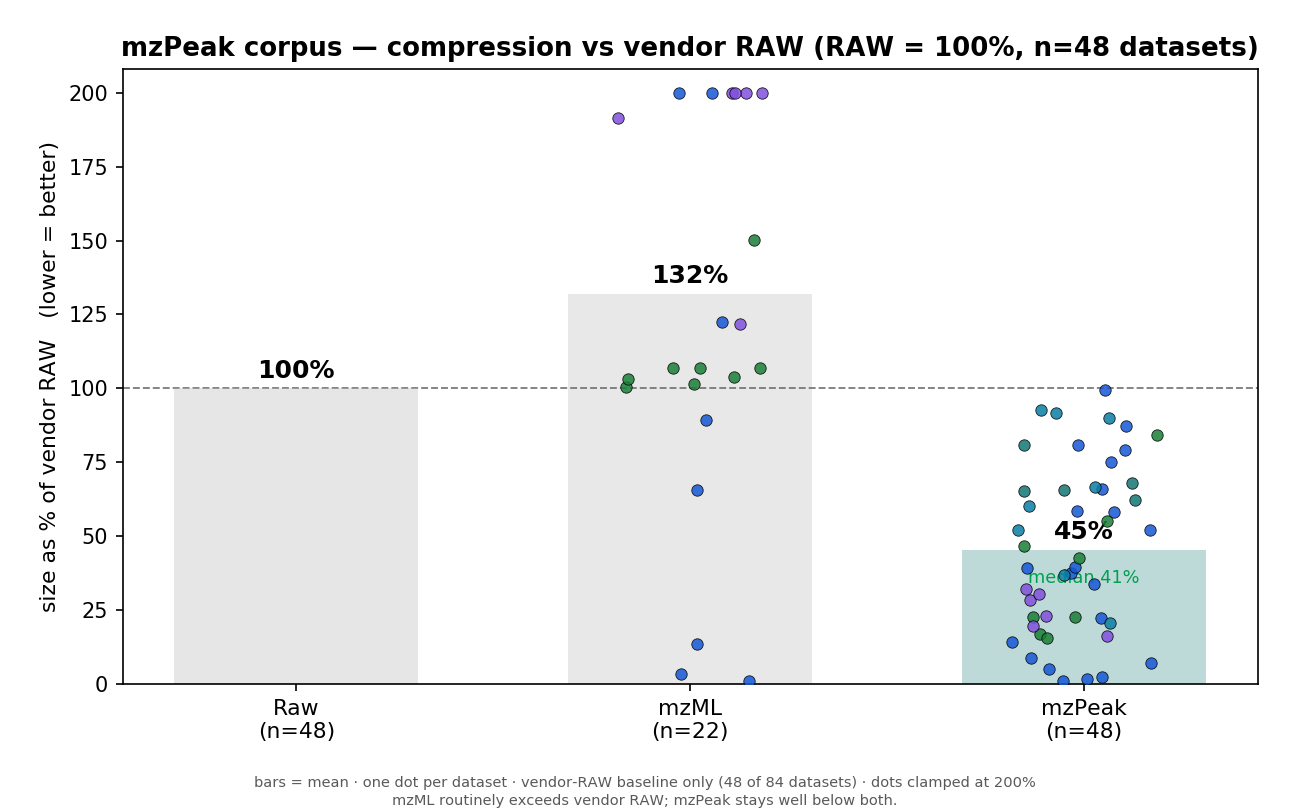
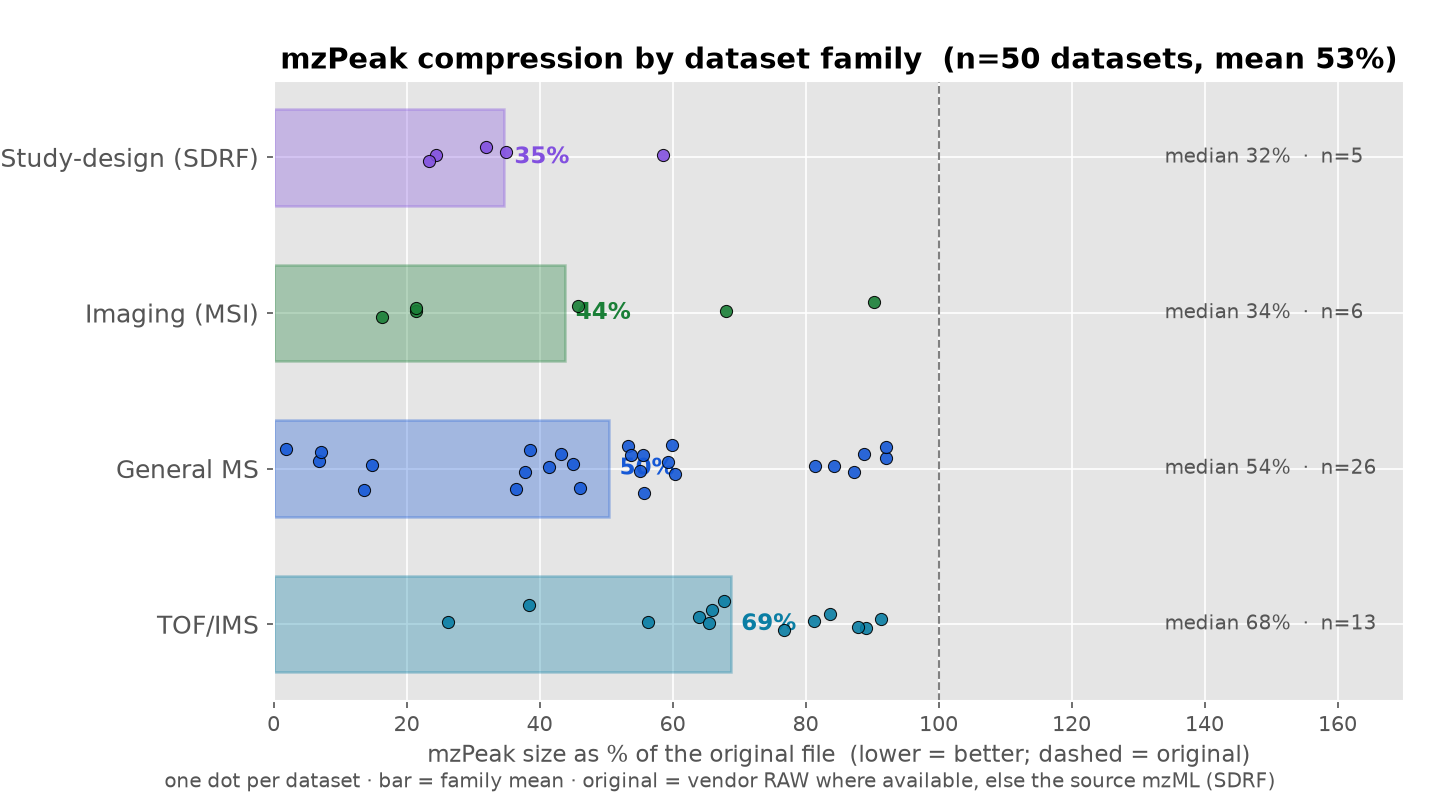
corpus figure: mzPeak-per-family bars, merged TOF/IMS (n=50)
- corpus-ratios.png -> single mzPeak-only figure, one bar per dataset family (mzPeak
  as % of the original file); IMS + TOF-grid merged into one 'TOF/IMS' family
- captions updated: n=50, avg 53% (study-design 35%, imaging 44%, general MS 50%, TOF/IMS 69%)
- remove dead per-family card figures (imaging/mass-spec/sdrf-ratios.png; the cards
  themselves were already dead code)

🤖 Generated with [Claude Code](https://claude.com/claude-code)

diff --git a/.vitepress/theme/Home.vue b/.vitepress/theme/Home.vue
@@ -17,43 +17,14 @@ const SPEC = withBase('/spec/')
 const WHITEPAPER = 'https://pubs.acs.org/doi/full/10.1021/acs.jproteome.5c00435'
 const EXAMPLES = 'https://data.mzpeak.org/v09/index.html'
 
-// The three real, public dataset families in the mzML2mzPeak example corpus,
-// each with its "size through the conversion chain" overview figure.
-const families = [
-  {
-    img: '/figures/mass-spec-ratios.png',
-    href: 'https://data.mzpeak.org/v09/mass-spec.html',
-    name: 'General MS data',
-    w: 941, h: 751,
-    alt: 'Compression overview for general MS data: raw 100%, mzML ~181%, mzPeak ~50%.',
-    desc: 'LC-/GC-MS across six instrument vendors. mzML typically inflates past the vendor raw file; mzPeak lands at about half of it.',
-  },
-  {
-    img: '/figures/imaging-ratios.png',
-    href: 'https://data.mzpeak.org/v09/imaging.html',
-    name: 'Imaging MS (MSI)',
-    w: 772, h: 751,
-    alt: 'Compression overview for imaging MS: raw 100%, mzPeak ~35%.',
-    desc: 'imzML imaging runs with per-pixel coordinates and embedded optical images — the whole image at roughly a third of the source.',
-  },
-  {
-    img: '/figures/sdrf-ratios.png',
-    href: 'https://data.mzpeak.org/v09/sdrf.html',
-    name: 'Study-design embedding',
-    w: 941, h: 751,
-    alt: 'Compression overview for study-design datasets: raw 100%, mzML ~194%, mzPeak ~45%.',
-    desc: 'Studies that carry their SDRF / ISA sample annotation alongside the data — kept in the archive, still near 45%.',
-  },
-]
-
 // Hero figure carousel — figures from the mzPeak white paper / deck + live viewers.
 const slides = [
   { src: '/hero/container.png', caption: 'Parquet tables in one container',
     alt: 'The mzPeak abstract figure: a shipping container labelled “mzPeak / Parquet” holding spectra and metadata.' },
   { src: '/hero/anatomy.png', caption: 'Anatomy of an mzPeak archive',
     alt: 'Diagram of an mzPeak archive: a JSON index plus Parquet tables for spectrum and chromatogram data and metadata, inside one container.' },
-  { src: '/figures/corpus-ratios.png', caption: 'Smaller than mzML, losslessly',
-    alt: 'Whole-corpus size comparison across 48 datasets: vendor raw at 100%, mzML averaging 132% (routinely larger than raw), and mzPeak at 45% (median 41%).' },
+  { src: '/figures/corpus-ratios.png', caption: 'A fraction of the original, losslessly',
+    alt: 'mzPeak compression by dataset family across 50 datasets: mzPeak is about 53% of the original file on average (study-design ~35%, imaging ~44%, general MS ~50%, TOF/IMS ~69%). Original = vendor RAW where available, else the source mzML.' },
   { src: '/hero/explorer.png', caption: 'Open any file in your browser',
     alt: 'The mzPeak Viewer showing a loaded run — summary, spectra and chromatograms — streamed in the browser.' },
   { src: '/hero/mzpeakiv.png', caption: 'MS-imaging in the browser',
@@ -592,25 +563,6 @@ onUnmounted(stop)
 .m-index { background: #e7f3e8; color: var(--green-700); }
 .m-other { background: var(--surface-panel); color: var(--text-muted); }
 
-/* ── Data families (mzML2mzPeak corpus overview figures) ─── */
-.families { margin-top: 72px; }
-.families-head { max-width: 680px; }
-.families-head h3 { font-size: clamp(1.4rem, 2vw, 1.75rem); font-weight: var(--weight-semibold); margin-top: 14px; }
-.families-head p { margin: 16px 0 0; font-size: var(--text-md); color: var(--text-secondary); line-height: 1.6; }
-.families-grid { display: grid; grid-template-columns: repeat(3, 1fr); gap: 18px; margin-top: 36px; }
-.family {
-  margin: 0; display: flex; flex-direction: column;
-  background: var(--surface-card); border: 1px solid var(--border-default);
-  border-radius: var(--radius-lg); padding: 14px;
-  transition: var(--transition-ui), transform var(--dur-base) var(--ease-standard), box-shadow var(--dur-base) var(--ease-standard);
-}
-.family:hover { transform: translateY(-2px); box-shadow: var(--shadow-2); border-color: var(--border-strong); }
-.family a { display: block; }
-.family img { width: 100%; height: auto; display: block; border-radius: var(--radius-md); background: #fff; }
-.family figcaption { padding: 14px 6px 4px; }
-.family .fam-name { font-size: var(--text-title); font-weight: var(--weight-semibold); color: var(--text-heading); }
-.family figcaption p { margin: 6px 0 0; font-size: var(--text-sm); color: var(--text-muted); line-height: var(--leading-snug); }
-
 /* ── Benchmark chart (real corpus) ──────────────────────── */
 .bench { margin-top: 46px; display: flex; flex-direction: column; gap: 13px; }
 .bench-row { display: grid; grid-template-columns: 244px 1fr 66px; gap: 20px; align-items: center; }
@@ -667,7 +619,6 @@ onUnmounted(stop)
   .stats-in { grid-template-columns: repeat(2, 1fr); }
   .feat-grid { grid-template-columns: 1fr; }
   .anatomy { grid-template-columns: 1fr; gap: 36px; }
-  .families-grid { grid-template-columns: 1fr; max-width: 460px; }
   .bench-row { grid-template-columns: 150px 1fr 52px; gap: 12px; }
   .bench-x { font-size: var(--text-md); }
   .eco-grid { grid-template-columns: 1fr; }

diff --git a/benchmarks.md b/benchmarks.md
@@ -27,10 +27,11 @@ original RAW.
 
 ## Compression — whole corpus
 
-Against the **vendor RAW** baseline across the broader corpus (n = 48 datasets with a RAW
-reference), mzML routinely exceeds 100 % of RAW while mzPeak stays well below both:
+Across the broader corpus, mzPeak is on average **about 53 % of the original file** it was made from
+— the vendor RAW where available, else the source mzML — and far smaller for imaging and study-design
+data. (mzML, by contrast, routinely exceeds 100 % of RAW.)
 
-![mzPeak corpus — compression vs vendor RAW (RAW = 100%, n = 48): mzML averages 132%, mzPeak 45% (median 41%)](/figures/corpus-ratios.png)
+![mzPeak compression by dataset family (n = 50 datasets): mzPeak averages 53% of the original file — study-design ~35%, imaging ~44%, general MS ~50%, TOF/IMS ~69%](/figures/corpus-ratios.png)
 
 ## Random access
 
